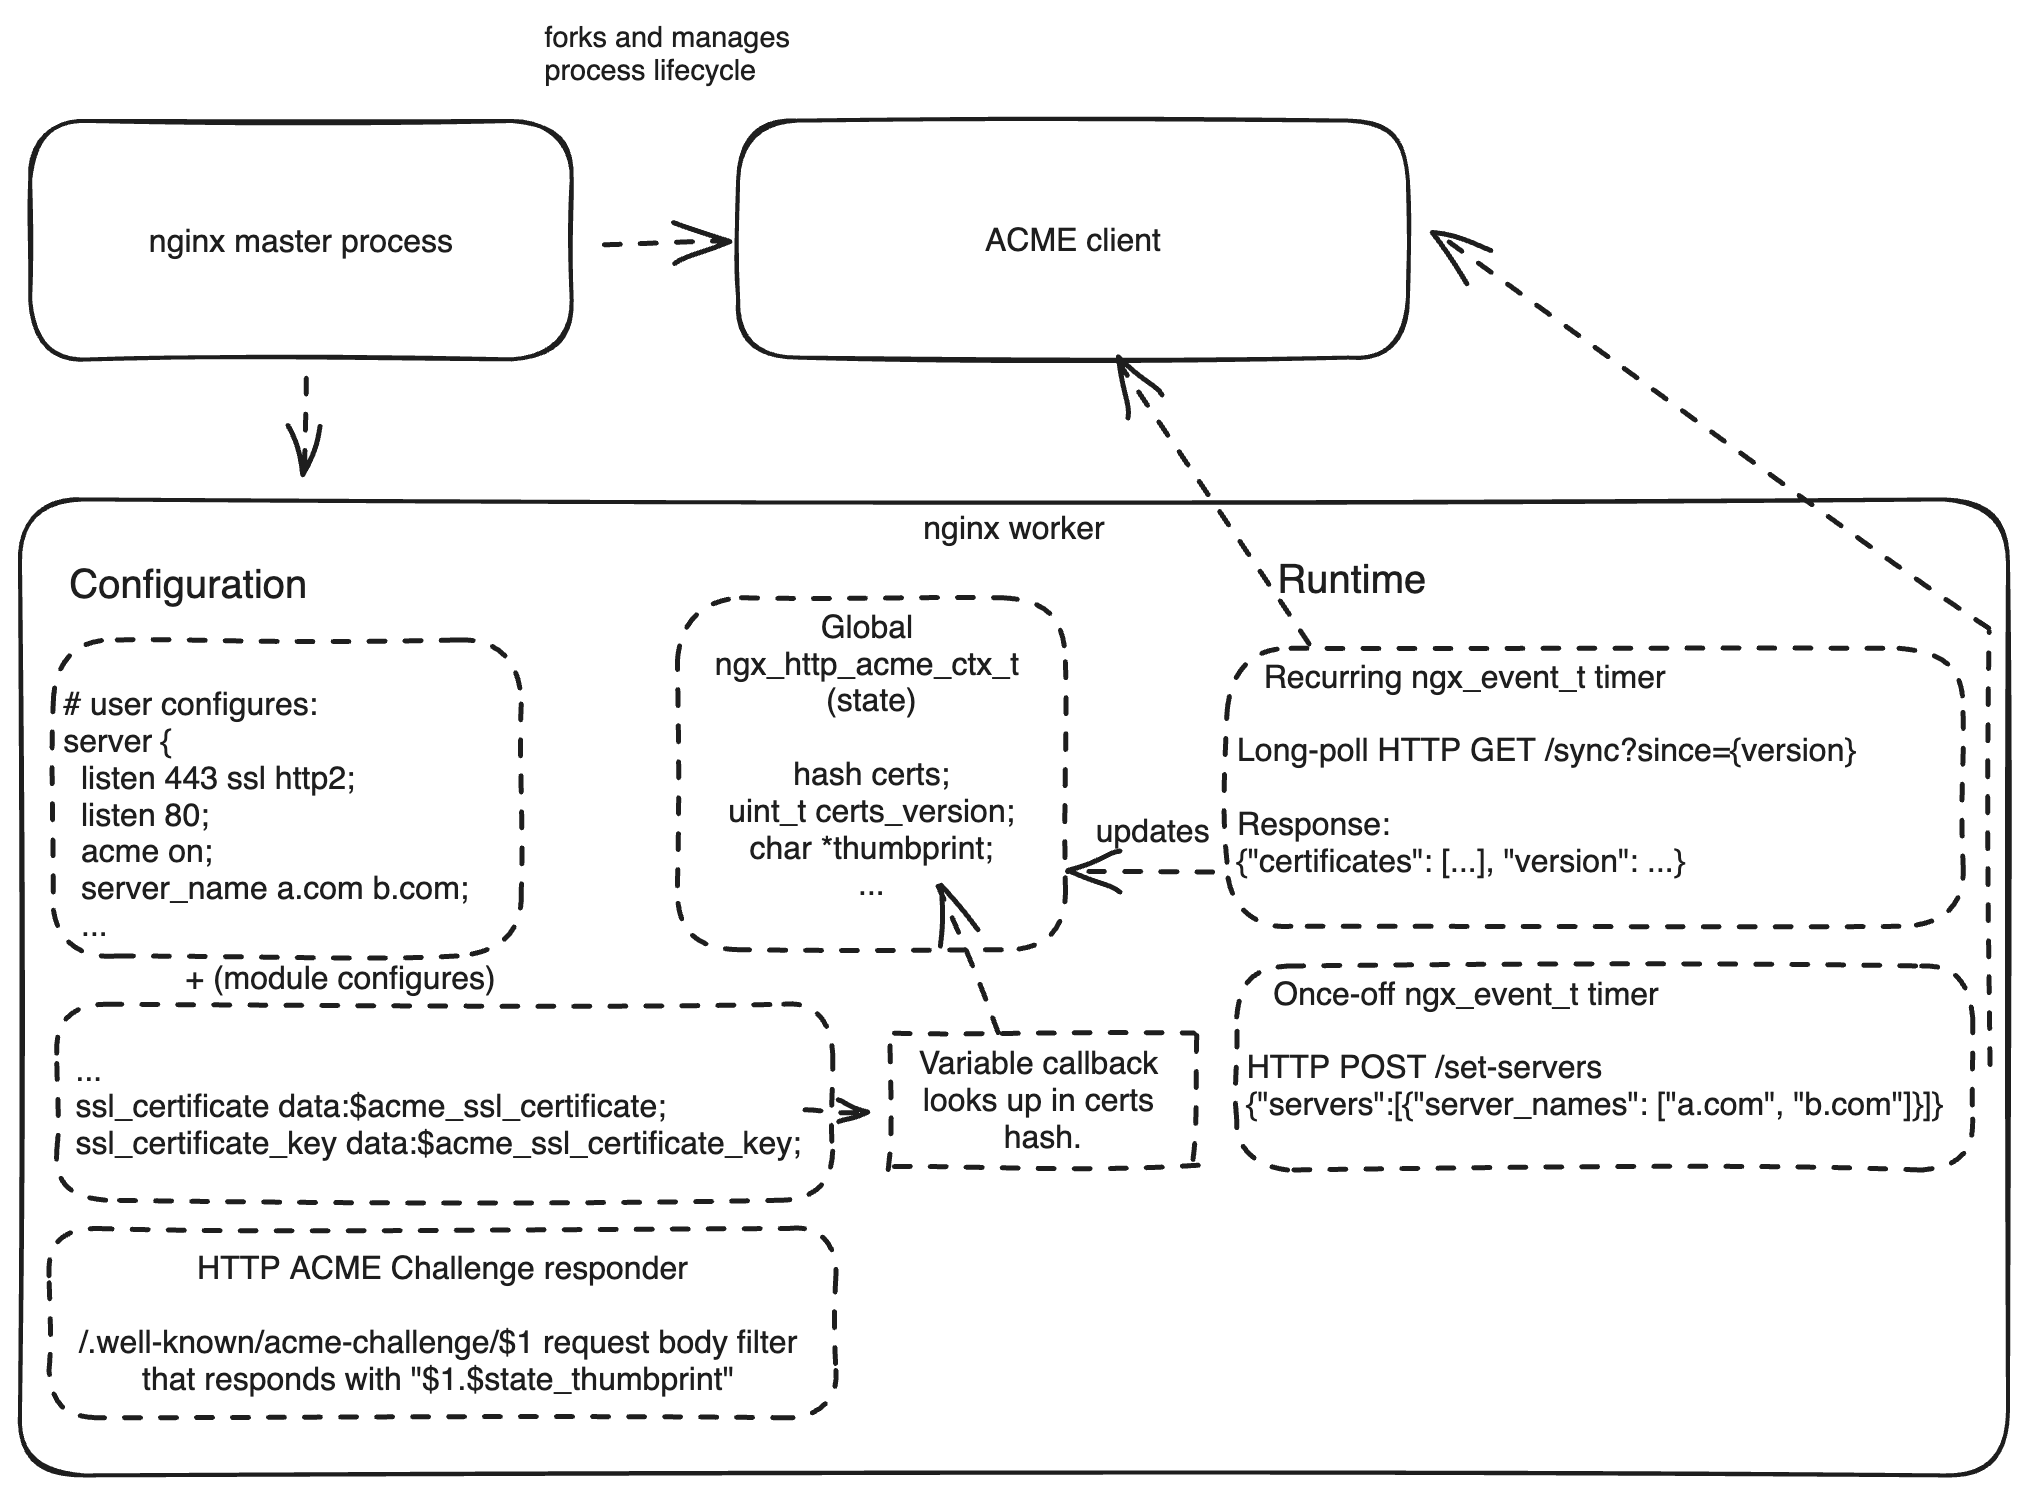
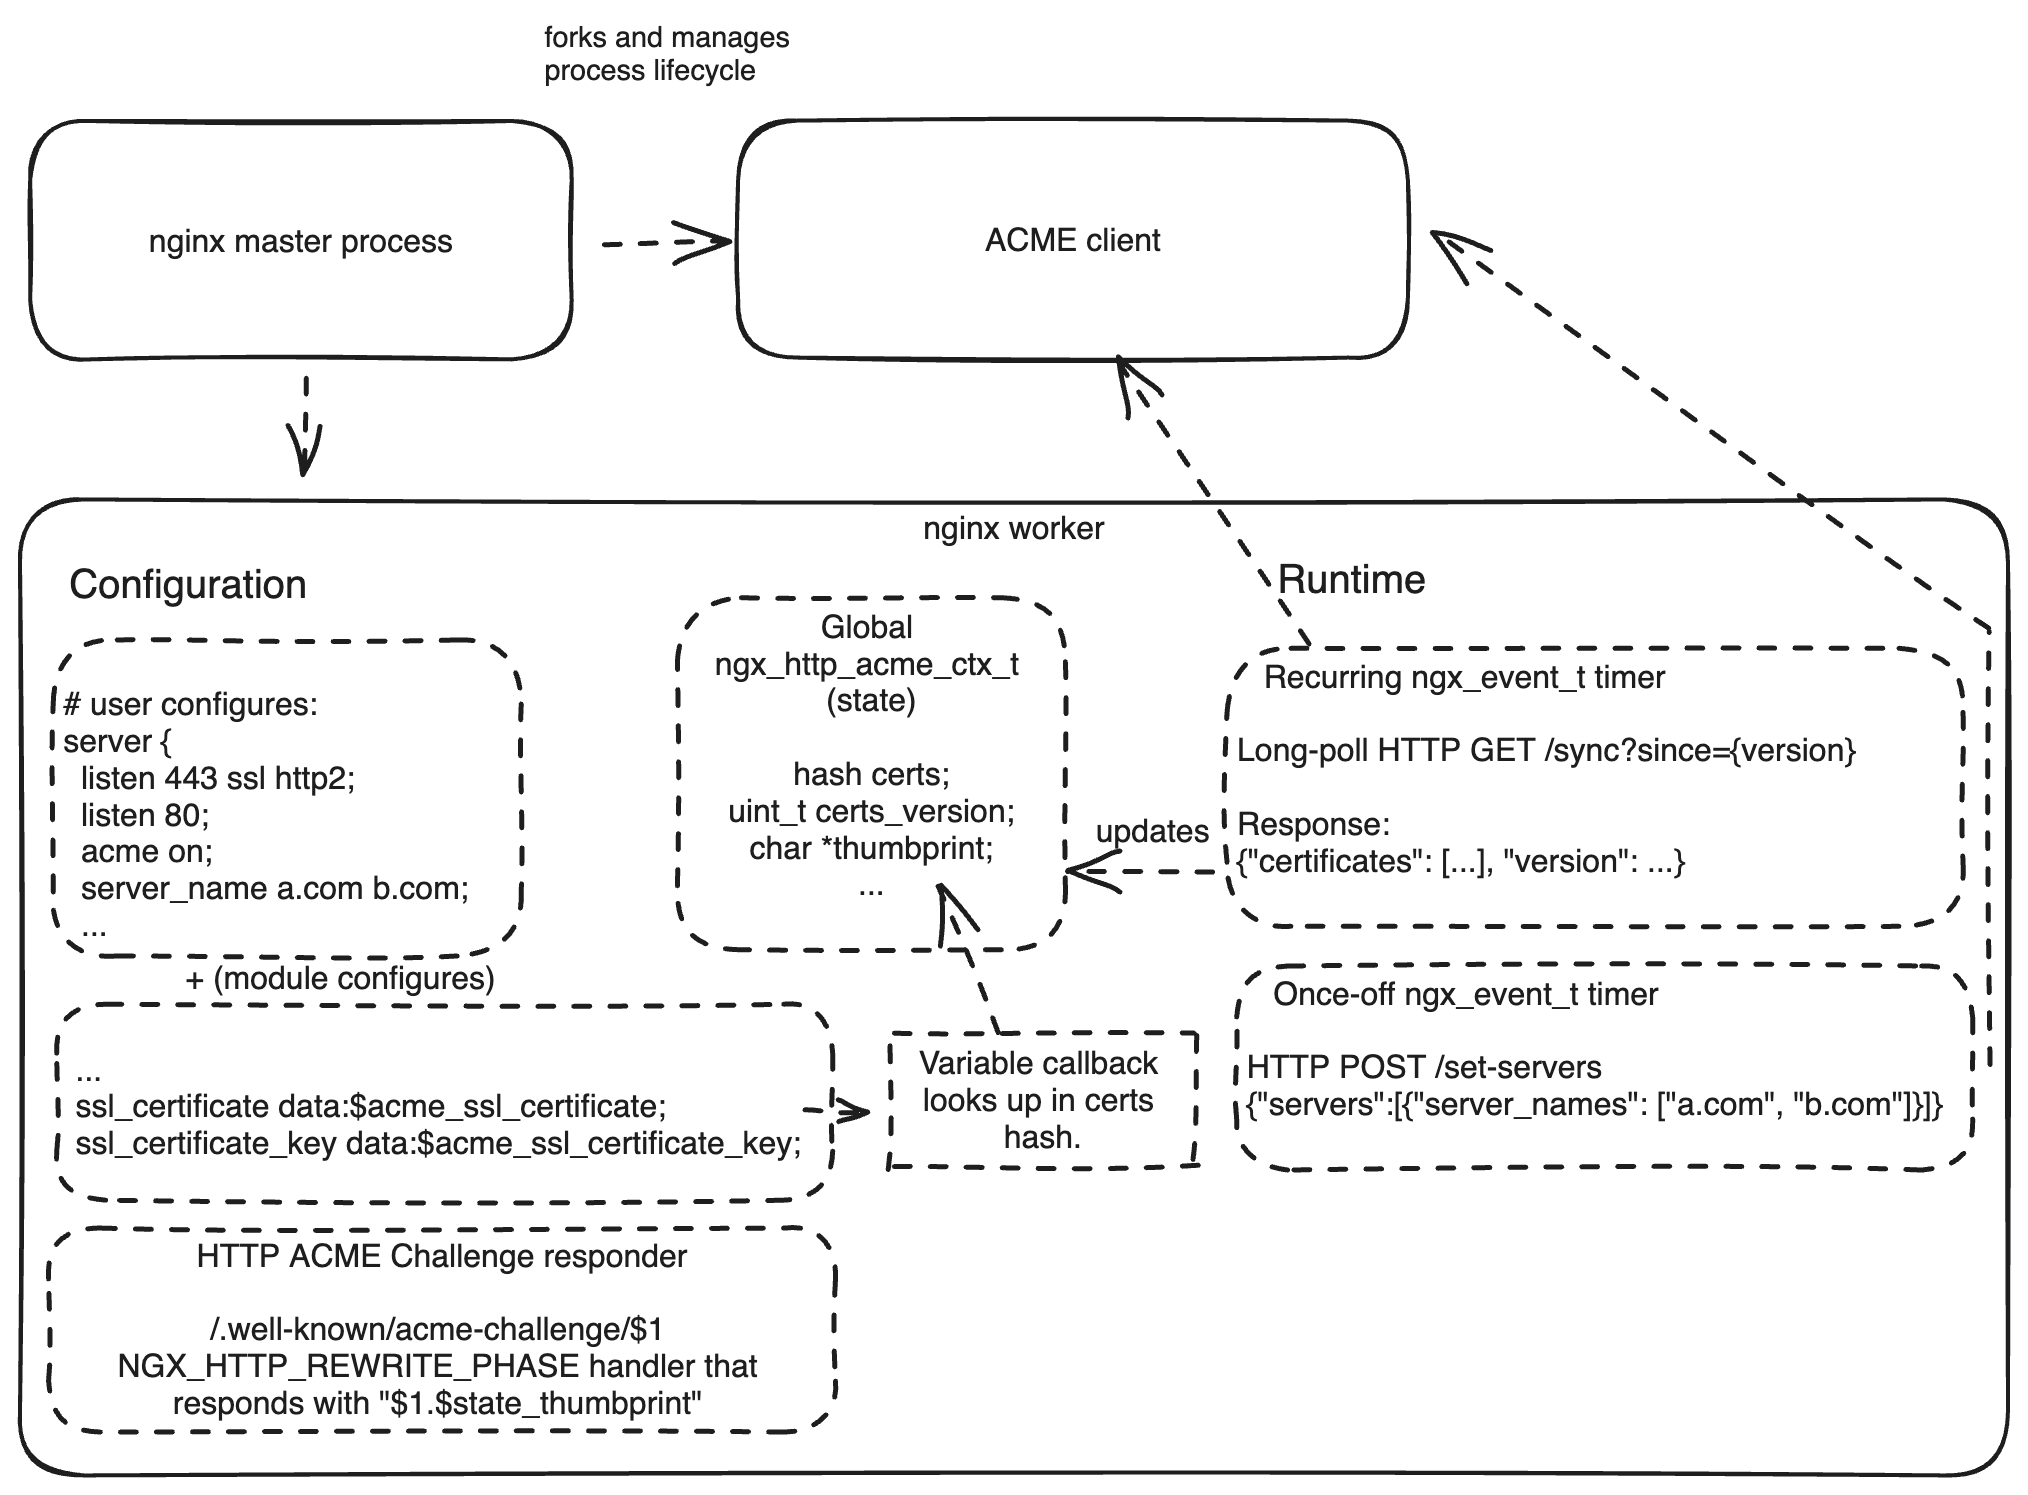
http-01 handler, and use http/1.1
for chunked encoding and connection: close

Changed region(s): [[0.0311, 0.8308, 0.4038, 0.9538]]

diff --git a/src/ngx_http_acme_module.c b/src/ngx_http_acme_module.c
@@ -109,6 +109,8 @@ static void ngx_http_acme_parse_http_response(ngx_http_acme_request_t *req);
 static void ngx_http_acme_prepare_sync_req(void *udata);
 static void ngx_http_acme_process_certificates_response(void *udata);
 
+static ngx_int_t ngx_http_acme_http_challenge_handler(ngx_http_request_t *r);
+
 cJSON *ngx_str_to_cJSON(ngx_str_t str, ngx_pool_t *pool);
 
 static ngx_command_t ngx_http_acme_commands[] = {
@@ -187,7 +189,6 @@ ngx_http_acme(ngx_conf_t *cf, ngx_command_t *cmd, void *conf)
     ngx_http_ssl_srv_conf_t *ssl_conf;
     ngx_http_complex_value_t *cv;
     ngx_http_compile_complex_value_t ccv;
-
     ngx_str_t *cert, *key;
 
     // The server block must be SSL-enabled.
@@ -259,6 +260,7 @@ ngx_http_acme(ngx_conf_t *cf, ngx_command_t *cmd, void *conf)
     {
         return NGX_CONF_ERROR;
     }
+
     return NGX_CONF_OK;
 }
 
@@ -291,6 +293,7 @@ ngx_http_acme_postconfiguration(ngx_conf_t *cf)
     ngx_http_core_srv_conf_t *cscf;
     ngx_http_server_name_t *name;
     char *set_servers;
+    ngx_http_handler_pt *h;
 
     cmcf = ngx_http_conf_get_module_main_conf(cf, ngx_http_core_module);
     cscfp = cmcf->servers.elts;
@@ -327,6 +330,14 @@ ngx_http_acme_postconfiguration(ngx_conf_t *cf)
     }
     free(set_servers);
 
+    // Set up a NGX_HTTP_REWRITE_PHASE handler for /.well-known/acme-challenge requests
+    h = ngx_array_push(&cmcf->phases[NGX_HTTP_REWRITE_PHASE].handlers);
+    if (h == NULL)
+    {
+        return NGX_ERROR;
+    }
+
+    *h = ngx_http_acme_http_challenge_handler;
     return NGX_OK;
 }
 
@@ -729,6 +740,12 @@ static void ngx_http_acme_parse_http_response(ngx_http_acme_request_t *req)
         ngx_log_error(NGX_LOG_ERR, acme_ctx->log, 0, "llhttp_execute failed: %s", llhttp_errno_name(err));
         return;
     }
+    err = llhttp_finish(&acme_ctx->parser);
+    if (err != HPE_OK)
+    {
+        ngx_log_error(NGX_LOG_ERR, acme_ctx->log, 0, "llhttp_finish failed: %s", llhttp_errno_name(err));
+        return;
+    }
 }
 
 // Initializes the HTTP requests that we will need to send off during the lifecycle of
@@ -746,9 +763,13 @@ static ngx_int_t ngx_http_acme_init_acme_requests(ngx_pool_t *pool, char *server
     }
     ngx_sprintf(
         req->body.data,
-        "POST /set-servers HTTP/1.0\r\nAccept: */*\r\n"
+        "POST /set-servers HTTP/1.1\r\n"
+        "Host: localhost\r\n"
+        "Accept: application/json"
         "Content-Type: application/json\r\n"
-        "Content-Length: %d\r\n\r\n%s\0",
+        "Content-Length: %d\r\n"
+        "Connection: close\r\n"
+        "\r\n%s\r\n",
         strlen(servers_json),
         servers_json);
     req->body.len = strlen((char *)req->body.data);
@@ -779,7 +800,10 @@ static void ngx_http_acme_prepare_sync_req(void *udata)
 {
     ngx_http_acme_request_t *req = (ngx_http_acme_request_t *)udata;
     ngx_snprintf(req->body.data, req->body.len,
-                 "GET /sync?since=%d HTTP/1.0\r\nAccept: application/json\r\n\r\n",
+                 "GET /sync?since=%d HTTP/1.1\r\n"
+                 "Accept: application/json\r\n"
+                 "Host: localhost\r\n"
+                 "Connection: close\r\n\r\n",
                  acme_ctx->certs_version);
     req->body.len = strlen((char *)req->body.data);
 
@@ -828,6 +852,7 @@ static void ngx_http_acme_process_certificates_response(void *udata)
         return;
     }
     acme_ctx->certs_version = json_version->valueint;
+    ngx_log_error(NGX_LOG_DEBUG, acme_ctx->log, 0, "acme certs version: %d", acme_ctx->certs_version);
 
     // thumbprint
     json_thumbprint = cJSON_GetObjectItemCaseSensitive(json, "thumbprint");
@@ -936,6 +961,60 @@ static void ngx_http_acme_ev_restart(ngx_http_acme_request_t *req, ngx_uint_t de
     req->recv.start = NULL;
     req->resp_body.start = NULL;
     ngx_add_timer(&req->ev, delay);
+}
+
+// The response handler for /.well-known/acme-challenge requests. It is configured
+// in the postconfiguration phase.
+static ngx_int_t ngx_http_acme_http_challenge_handler(ngx_http_request_t *r)
+{
+    ngx_int_t rc;
+    ngx_str_t prefix, token;
+    ngx_chain_t out;
+    ngx_buf_t *b;
+
+    if (r->method != NGX_HTTP_GET)
+    {
+        return NGX_DECLINED;
+    }
+
+    prefix = (ngx_str_t)ngx_string("/.well-known/acme-challenge/");
+    if (r->uri.len < (prefix.len + 1) || ngx_strncmp(r->uri.data, prefix.data, prefix.len) != 0)
+    {
+        return NGX_DECLINED;
+    }
+
+    token.len = r->uri.len - prefix.len;
+    token.data = r->uri.data + prefix.len;
+
+    r->headers_out.status = NGX_HTTP_OK;
+    ngx_str_set(&r->headers_out.content_type, "text/plain");
+
+    rc = ngx_http_send_header(r);
+    if (rc != NGX_OK)
+    {
+        return rc;
+    }
+
+    b = ngx_create_temp_buf(r->pool, ngx_pagesize);
+    if (b == NULL)
+    {
+        return NGX_DECLINED;
+    }
+
+    b->last = ngx_cpymem(b->last, (char *)token.data, token.len);
+    b->last = ngx_cpymem(b->last, ".", 1);
+    b->last = ngx_cpymem(b->last, (char *)acme_ctx->thumbprint,
+                         strlen((char *)acme_ctx->thumbprint));
+
+    if (r == r->main)
+    {
+        b->last_buf = 1;
+    }
+    b->last_in_chain = 1;
+    out.buf = b;
+    out.next = NULL;
+
+    return ngx_http_output_filter(r, &out);
 }
 
 cJSON *ngx_str_to_cJSON(ngx_str_t str, ngx_pool_t *pool)

diff --git a/dummy-acme-client/main.go b/dummy-acme-client/main.go
@@ -11,7 +11,6 @@ import (
 	"encoding/pem"
 	"errors"
 	"fmt"
-	"io"
 	"log"
 	"net/http"
 	"os"
@@ -57,6 +56,9 @@ var (
 		acmeServer       string
 		acmeContactEmail string
 	}
+
+	// Some ballast to make sure that fragmented responses work properly on the module side
+	ballast = bytes.Repeat([]byte{'q'}, 32*1024)
 
 	state clientState
 
@@ -144,6 +146,7 @@ func processSyncs() {
 			"certificates": json.RawMessage(certsJSON),
 			"thumbprint":   state.accountThumbprint(),
 			"version":      version,
+			"ballast":      ballast,
 		})
 		lastUpdateMu.Lock()
 		lastUpdate = buf
@@ -209,7 +212,7 @@ func handleSync(w http.ResponseWriter, r *http.Request) {
 
 	if response != nil {
 		w.Header().Set("content-type", "application/json")
-		io.Copy(w, bytes.NewReader(lastUpdate))
+		w.Write(lastUpdate)
 		return
 	}
 

diff --git a/README.md b/README.md
@@ -54,7 +54,7 @@ Currently, the following is implemented:
   - [x] Receiving worker configuration
 - [ ] nginx module
   - [ ] nginx master process launches ACME client
-  - [ ] ACME HTTP challenge response
+  - [x] ACME HTTP challenge response
   - [x] Pushes config to ACME client
   - [x] Recurringly pulls certificates from ACME client
   - [x] Dynamically uses certificates from ACME client
